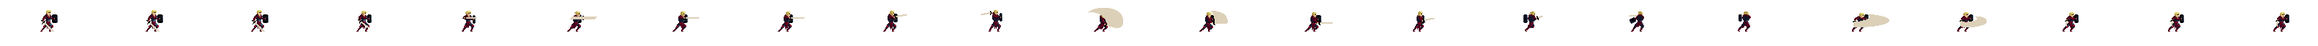
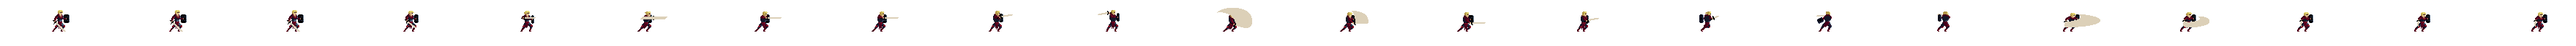
Enhance Knight entity with attack and death animations, update constants for improved animation performance

diff --git a/src/classes/entities/knight.entity.ts b/src/classes/entities/knight.entity.ts
@@ -7,6 +7,8 @@ export class Knight {
   private scene: Phaser.Scene;
   private knight?: Phaser.GameObjects.Sprite;
   private background: any;
+  private canIdle: boolean = true;
+  private dead: boolean = false;
 
   private keys?: {
     W: Phaser.Input.Keyboard.Key;
@@ -55,24 +57,61 @@ export class Knight {
   }
 
   update() {
-    if (!this.knight || !this.keys) return;
+    if (!this.knight || !this.keys || this.dead) return;
 
-    if (this.keys.A.isDown) {
+    const { A, D, SHIFT, SPACE, W } = this.keys;
+
+    // Handle movement
+
+    if (A.isDown) {
       this.knight.setFlipX(true);
+      this.canIdle = true;
       this.knight.play("knight_walk", true);
       this.background.update(-0.2);
-    } else if (this.keys.D.isDown) {
+    } else if (D.isDown) {
       this.knight.setFlipX(false);
+      this.canIdle = true;
       this.knight.play("knight_walk", true);
       this.background.update(0.2);
-    } else if (this.keys.SHIFT.isDown) {
-      this.knight.play("knight_shield", true);
-    } else if (this.keys.SPACE.isDown) {
+    }
+
+    // Handle shield
+    else if (SHIFT.isDown) {
+      if (this.knight.anims.currentAnim?.key !== "knight_shield") {
+        this.canIdle = false;
+        this.knight.play("knight_shield", true);
+      }
+    }
+    // Handle attack
+    else if (SPACE.isDown) {
+      this.canIdle = false;
+      this.knight?.setOrigin(0.5, 0.5);
       this.knight.play("knight_attack", true);
-    } else if (this.keys.W.isDown) {
-      this.knight.play("knight_death", true);
-    } else {
-      this.knight.play("knight_idle", true);
+
+      this.knight.on(
+        "animationcomplete",
+        (animation: Phaser.Animations.Animation) => {
+          if (animation.key === "knight_attack") {
+            this.knight?.setOrigin(0.5, 0.5);
+            this.canIdle = true;
+          }
+        }
+      );
+    }
+    // Handle death
+    else if (W.isDown) {
+      if (this.knight.anims.currentAnim?.key !== "knight_death") {
+        this.canIdle = false;
+        this.dead = true;
+        this.knight.play("knight_death", true);
+      }
+    }
+
+    // Handle idle state
+    else if (this.canIdle) {
+      if (this.knight.anims.currentAnim?.key !== "knight_idle") {
+        this.knight.play("knight_idle", true);
+      }
     }
   }
 }

diff --git a/src/constants/knight.constants.ts b/src/constants/knight.constants.ts
@@ -33,16 +33,16 @@ export const knight_constants = [
     spriteKey: "Knight_Attack",
     spritePath: "./img/Knight/Knight_Attack.png",
     spriteConfiguration: {
-      frameWidth: 144,
+      frameWidth: 160,
       frameHeight: 64,
     },
     animationKey: "knight_attack",
     animConfiguration: {
       start: 0,
-      end: 21,
+      end: 12,
     },
-    frameRate: 21,
-    repeat: 1,
+    frameRate: 18,
+    repeat: 0,
   },
   {
     spriteKey: "Knight_Death",
@@ -57,7 +57,7 @@ export const knight_constants = [
       end: 14,
     },
     frameRate: 14,
-    repeat: 1,
+    repeat: 0,
   },
   {
     spriteKey: "Knight_Shield",
@@ -71,7 +71,7 @@ export const knight_constants = [
       start: 0,
       end: 6,
     },
-    frameRate: 12,
-    repeat: 1,
+    frameRate: 22,
+    repeat: 0,
   },
 ];
